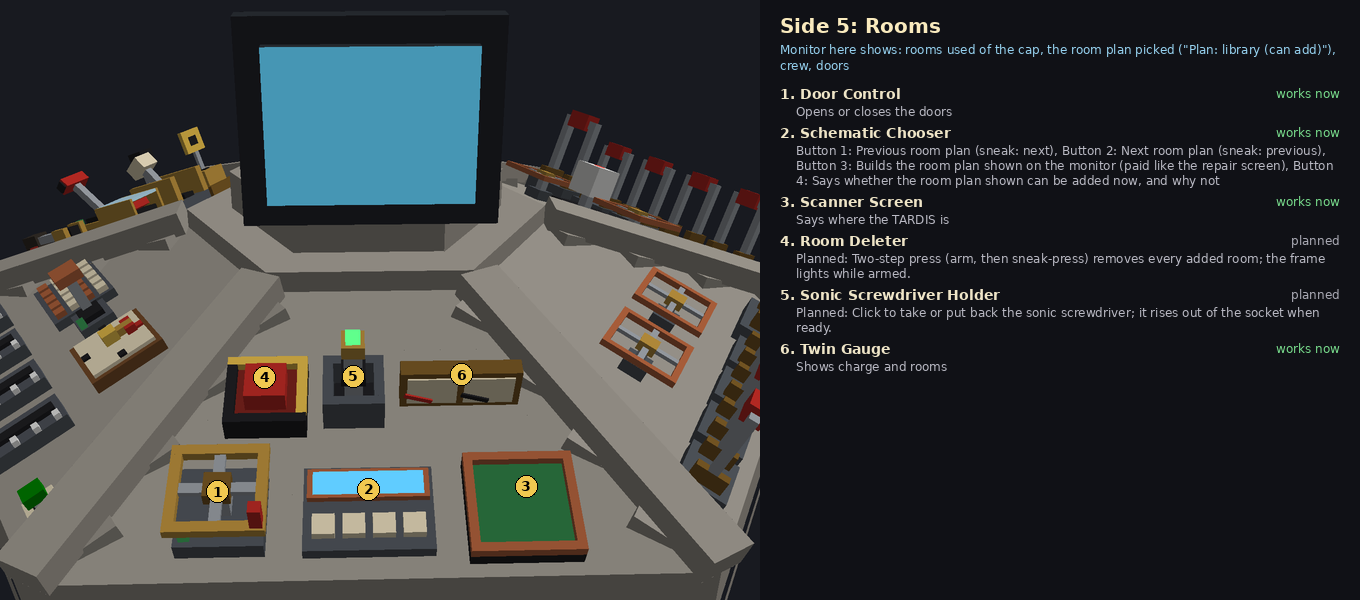
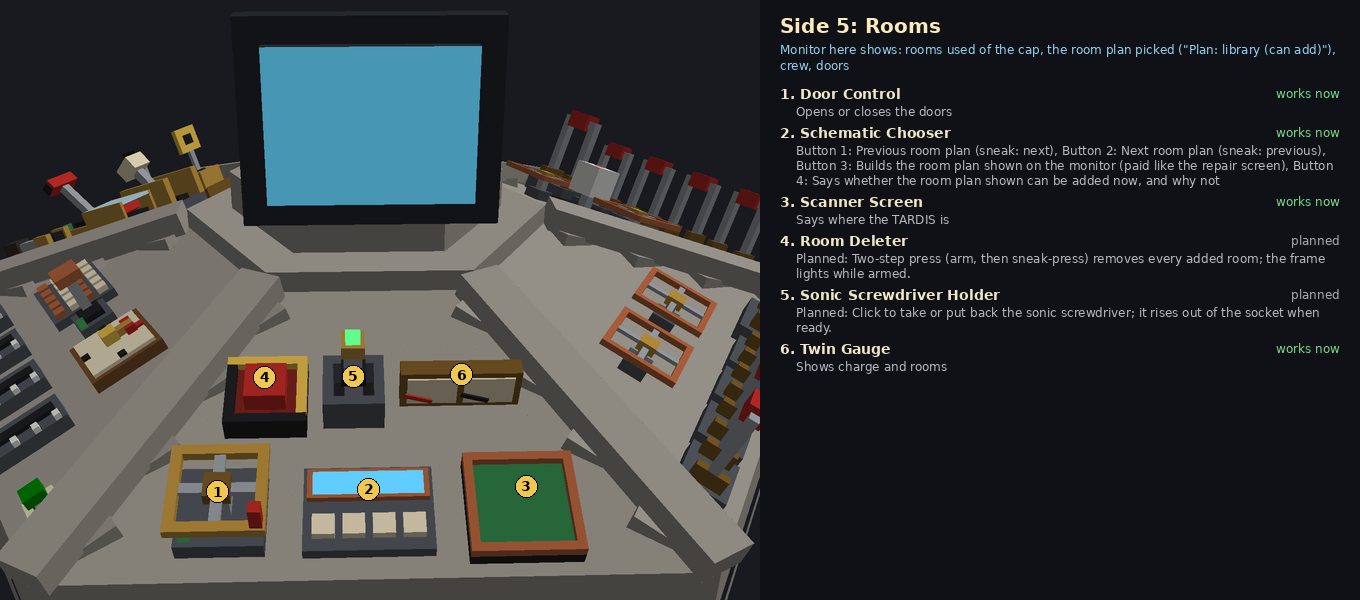
Console layout: fix the exterior side after removing the coordinated switch; regenerate controls
Claude-Session: https://claude.ai/code/session_01TU5raMvnzpgDuKv2FMhzvv

Changed region(s): [[0.0, 0.21, 0.1544, 0.42]]

diff --git a/tardis/tools/console_layout.py b/tardis/tools/console_layout.py
@@ -123,7 +123,7 @@ SIDES = [
                      ("handbrake", "handbrake", {"arm": "handbrake"}, NAV1)]),
               (0.53, [("phase_key", "phase_key", {"key": "phase_key"}, NAV1),
                       ("phase_lever", "phase_lever", {"arm": "phase"}, NAV1),
-                      ("thrusters", "thrusters", {"rocker": "thrusters"}, NAV1)])])]},
+                      ("thrusters", "thrusters", {"rocker": "thrusters"}, NAV1)])]},
     {"theme": "Y & memory", "monitor":
      "e.g. \"Target Y 70\" (or \"Target Y: the ground\"), land on ground, save mode, saved slots",
      "ladder": [("land_switch", "pull_switch", {"rod": "land"}, NAV1)],  # 1.7.10's switch 34 beside the Y levers
